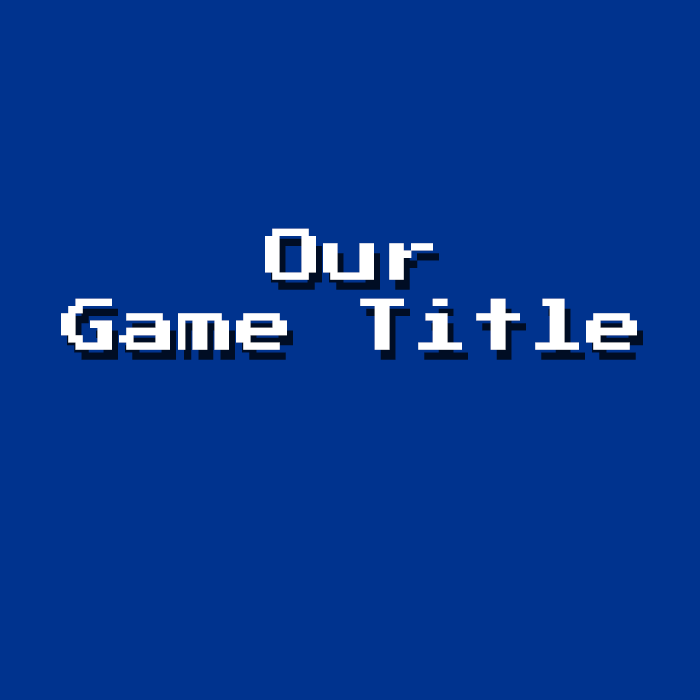
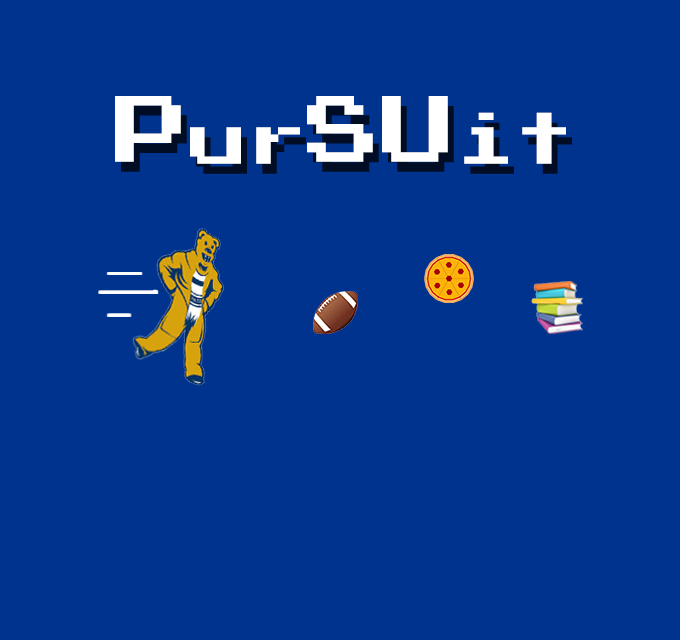
added more navigation between panels

Changed region(s): [[0.0618, 0.3125, 0.9265, 0.625], [0.1544, 0.125, 0.8338, 0.2812]]

diff --git a/src/Home.java b/src/Home.java
@@ -3,7 +3,7 @@ import javax.swing.*;
 
 public class Home extends myJPanel  
 {
-    GButton jb1;
+    GButton jb1, jb2;
     
     public Home () 
     {
@@ -11,6 +11,9 @@ public class Home extends myJPanel
         jb1 = new GButton("start");
         add(jb1);
         jb1.setBounds(225, 420, 250, 100);  
+        jb2 = new GButton("clickinst");
+        add(jb2);
+        jb2.setBounds(175, 530, 350, 75);
         
     }
  
@@ -18,7 +21,7 @@ public class Home extends myJPanel
    public void paintComponent(Graphics g) {
         super.paintComponent(g);
         requestFocusInWindow();
-        Image start = Toolkit.getDefaultToolkit().getImage("images/startnew.png");
+        Image start = Toolkit.getDefaultToolkit().getImage("images/startpage.png");
         g.drawImage(start, 0, 0, this);
    }
 

diff --git a/src/myJTabbedPane.java b/src/myJTabbedPane.java
@@ -35,7 +35,10 @@ public class myJTabbedPane extends JTabbedPane implements ActionListener {
         
         options.jb1.addActionListener(this);
         home.jb1.addActionListener(this);
+        home.jb2.addActionListener(this);
         scores.play.addActionListener(this);
+        inst.targets.addActionListener(this);
+        
     }
 
     @Override
@@ -79,6 +82,12 @@ public class myJTabbedPane extends JTabbedPane implements ActionListener {
             }
         }
         if (obj == home.jb1) {
+            setSelectedIndex(4);
+        }
+        if (obj == home.jb2){
+            setSelectedIndex(1);
+        }
+        if (obj == inst.targets){
             setSelectedIndex(4);
         }
         if (obj == scores.play){

diff --git a/src/Instructions.java b/src/Instructions.java
@@ -8,10 +8,12 @@ public class Instructions extends myJPanel {
             instructionsLineItemFour, instructionsLineItemFive, instructionsLineItemSix, instructionsLineItemSeven;
     JLabel jl;
     XML_240 xe;
-    GButton2 jbtitle, targets;
+    GButton2 jbtitle;
+    GButton targets;
     
     public Instructions() {
         super();
+        
         jbtitle = new GButton2("insttitle");
         add(jbtitle);
         xe = new XML_240();
@@ -27,7 +29,8 @@ public class Instructions extends myJPanel {
 
         setBackground(Color.white);
         add(jl);
-        targets = new GButton2("targetsinfo");
+        
+        targets = new GButton("targetinst");
         add(targets);
         
 
